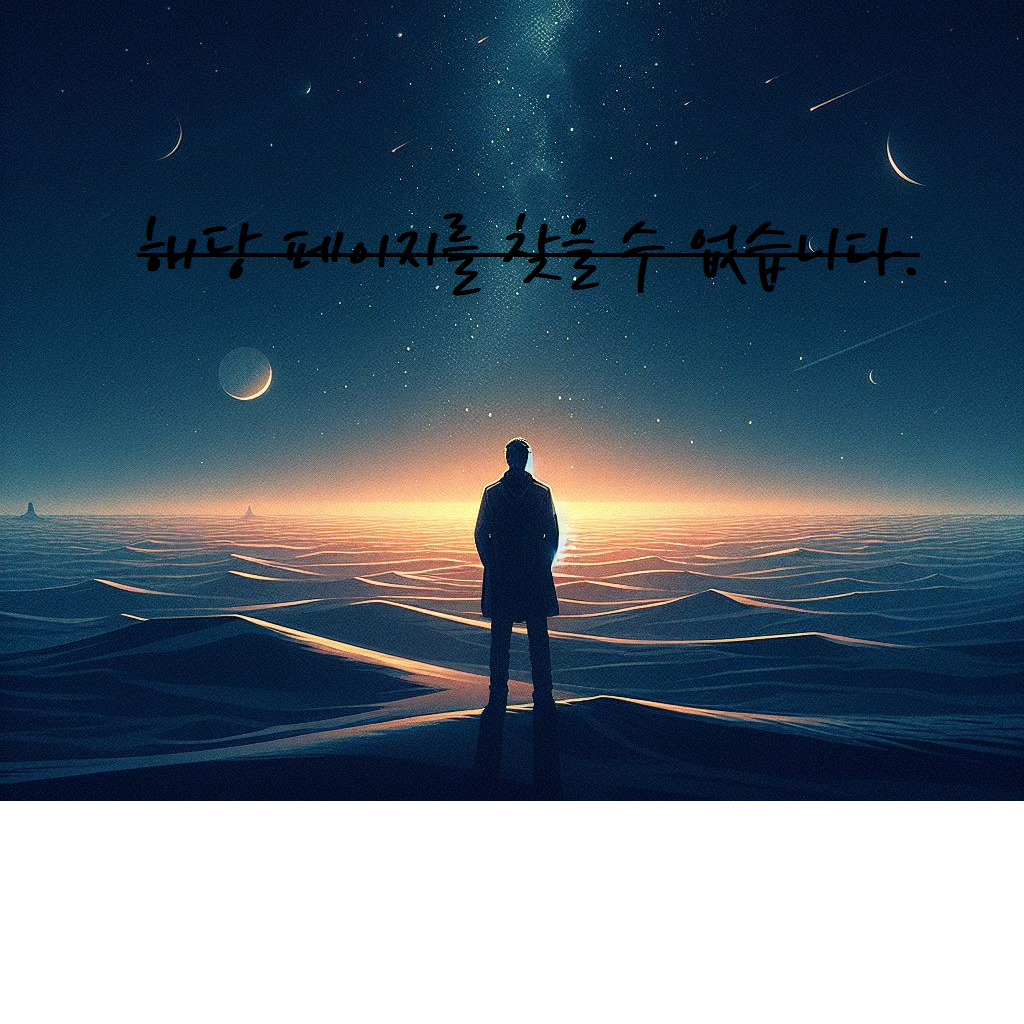
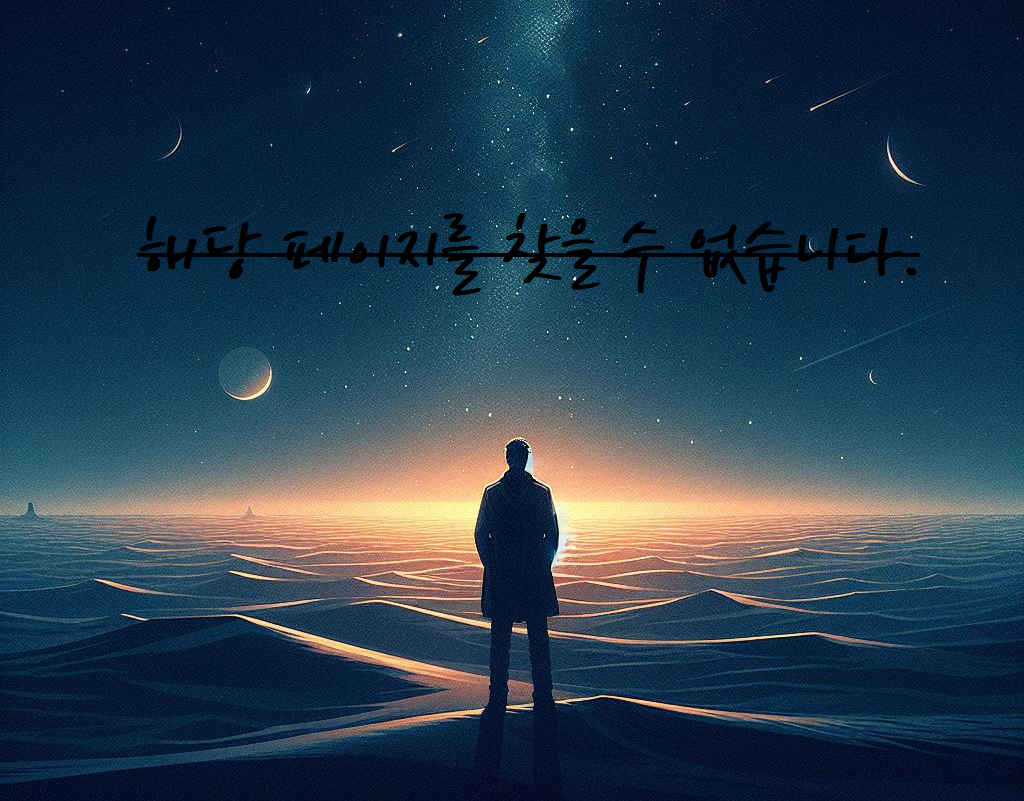
404 페이지 재수정

diff --git a/_pages/404.md b/_pages/404.md
@@ -7,6 +7,6 @@ permalink: /404.html
 
 
 <p align="center">
-  <img src="https://github.com/jinkyeom/jinkyeom.github.io/blob/master/assets/images/404-에러.png?raw=true" width="70%">
+  <img src="https://github.com/jinkyeom/jinkyeom.github.io/blob/master/assets/images/404-에러.png?raw=true" width="100%">
 </p>
 <center><a href="https://jinkyeom.github.io" class="btn btn--success">집으로</a>
